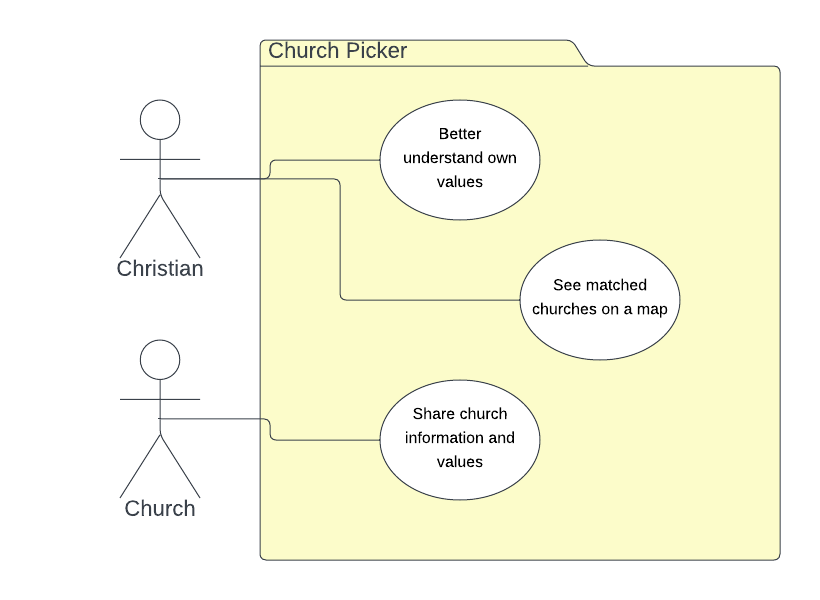
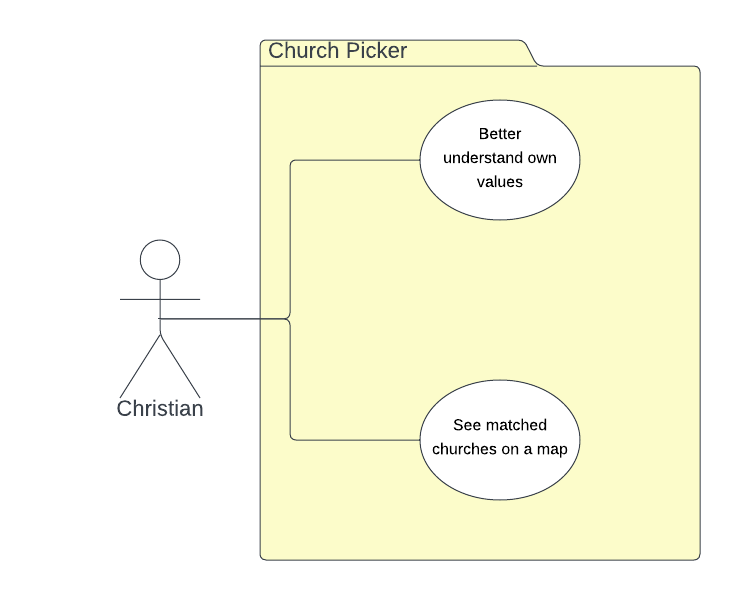
updated requirements

diff --git a/documentation/requirements.md b/documentation/requirements.md
@@ -3,15 +3,12 @@
 ## User Needs
 
 ### Actors
-Christian living in Bristol.
-Local church in Bristol.
+Christian looking for a church to attend.
 
 ### User stories
 Story 1: As a christian, I would like to understand where I stand on certain viewpoints and see if there are churches that hold to the same values.
 
 Story 2: As a christian, I want to see if there are any churches in my area which match my values.  
-
-Story 3: As a church, we want to add our church to the site to avoid the relational hurt of people coming and going due to misaligned values.  
 
 ### Use Cases
 
@@ -20,7 +17,7 @@ Story 3: As a church, we want to add our church to the site to avoid the relatio
 | **Description** | Answer a short series of questions to ascertain values |
 | **Actors** | Christian |
 | **Assumptions** | Christian wants to understand their views more to help them choose the right church</td></tr>
-| **Steps** | <ol><li>Christian answers a short series of questions</li><li>System performs analysis of answers</li><li>System displays answers with analysis, explanation and matched churches</li></ol>|
+| **Steps** | <ol><li>Christian answers a short series of questions</li><li>application performs analysis of answers</li><li>application displays answers with analysis, explanation and matched churches</li> <li>application returns answers efficiently</li></ol>|
 | **Variations** | Christian would like more information on the views presented<br /> - Could provide links to external articles for further reading |
 | **Issues** | Questions would be limited, this may not be the most comprehensive analysis and may not draw out deeper issues |
 
@@ -29,33 +26,21 @@ Story 3: As a church, we want to add our church to the site to avoid the relatio
 | **Description** | See nearby churches on a map highlighting best matches |
 | **Actors** | Christian |
 | **Assumptions** | Christian wants to know if there are any matched churches in their area<br />Christian may not want to choose the nearest best match |
-| **Steps** | <ol><li>Christian selects to see matched churches on a map</li><li>System utilises data from database and mapping tool</li><li>System displays matched churches within adjustable radius</li><li>Christian clicks on a church to see more information and matching analysis</li></ol> |
-| **Variations** | Christian may be looking for a church when travelling outside of Bristol<br /> - Could provide links to other church finder sites (findachurch.co.uk & findachurch.com both agreed) |
+| **Steps** | <ol><li>Christian selects to see matched churches on a map</li><li>application utilises data from database and mapping tool</li><li>application displays matched churches within adjustable radius</li><li>Christian clicks on a church to see more information and matching analysis</li></ol> |
+| **Variations** | Christian may be looking for a church when travelling outside of the UK<br /> - Could provide links to other church finder sites (findachurch.co.uk & findachurch.com both agreed) |
 | **Issues** | Initial data collection will be manual so will be working with a smaller dataset, may not get a good match |
-
-| UC3 | Share church information and values | 
-| --- | -------------------------------------- |
-| **Description** | Use a signup page to add church to the site |
-| **Actors** | Church |
-| **Assumptions** | A church would like to add themselves to the site |
-| **Steps** | <ol><li>Display a signup page</li><li>System displays a form with series of questions</li><li>Church will answer the questions and submit the form</li><li>Form submission triggers an email with form responses</li><li>Maintainer will manually add church to site</li></ol> |
-| **Variations** | Could enable churches to add themselves with an approval function for maintainer<br />Churches may want to update their data |
-| **Issues** | Need to be selective of how churches can input data, security/validation if they are touching the database |
-
 
 ![Insert your Use-Case Diagram Here](images/use-case.png)
 
 ## Software Requirements Specification
 ### Functional requirements
 
-* FR1: The system must ... (from UC?)
-* FR2: The system must ... (from UC?)
-* FR3: The system shall ... (from UC?)
-* FR4: The system shall ... (from UC?)
-* FR5: The system shall ... (from UC?)
+* FR1: The application must ask the user a series of questions (from UC1)
+* FR2: The application must analyse the user answers (from UC1)
+* FR3: The application shall show recommended churches (from UC2)
+* FR4: The application shall show non-recommended churches (from UC2)
 
 
 ### Non-Functional Requirements
-* NFR1: The system must ... (from UC?)
-* NFR2: The system shall ... (from UC?)
-* NFR3: The system shall ... (from UC?)
+* NFR1: The application return results within 5 seconds (from UC1)
+* NFR2: The application shall be user friendly (from UC2)
